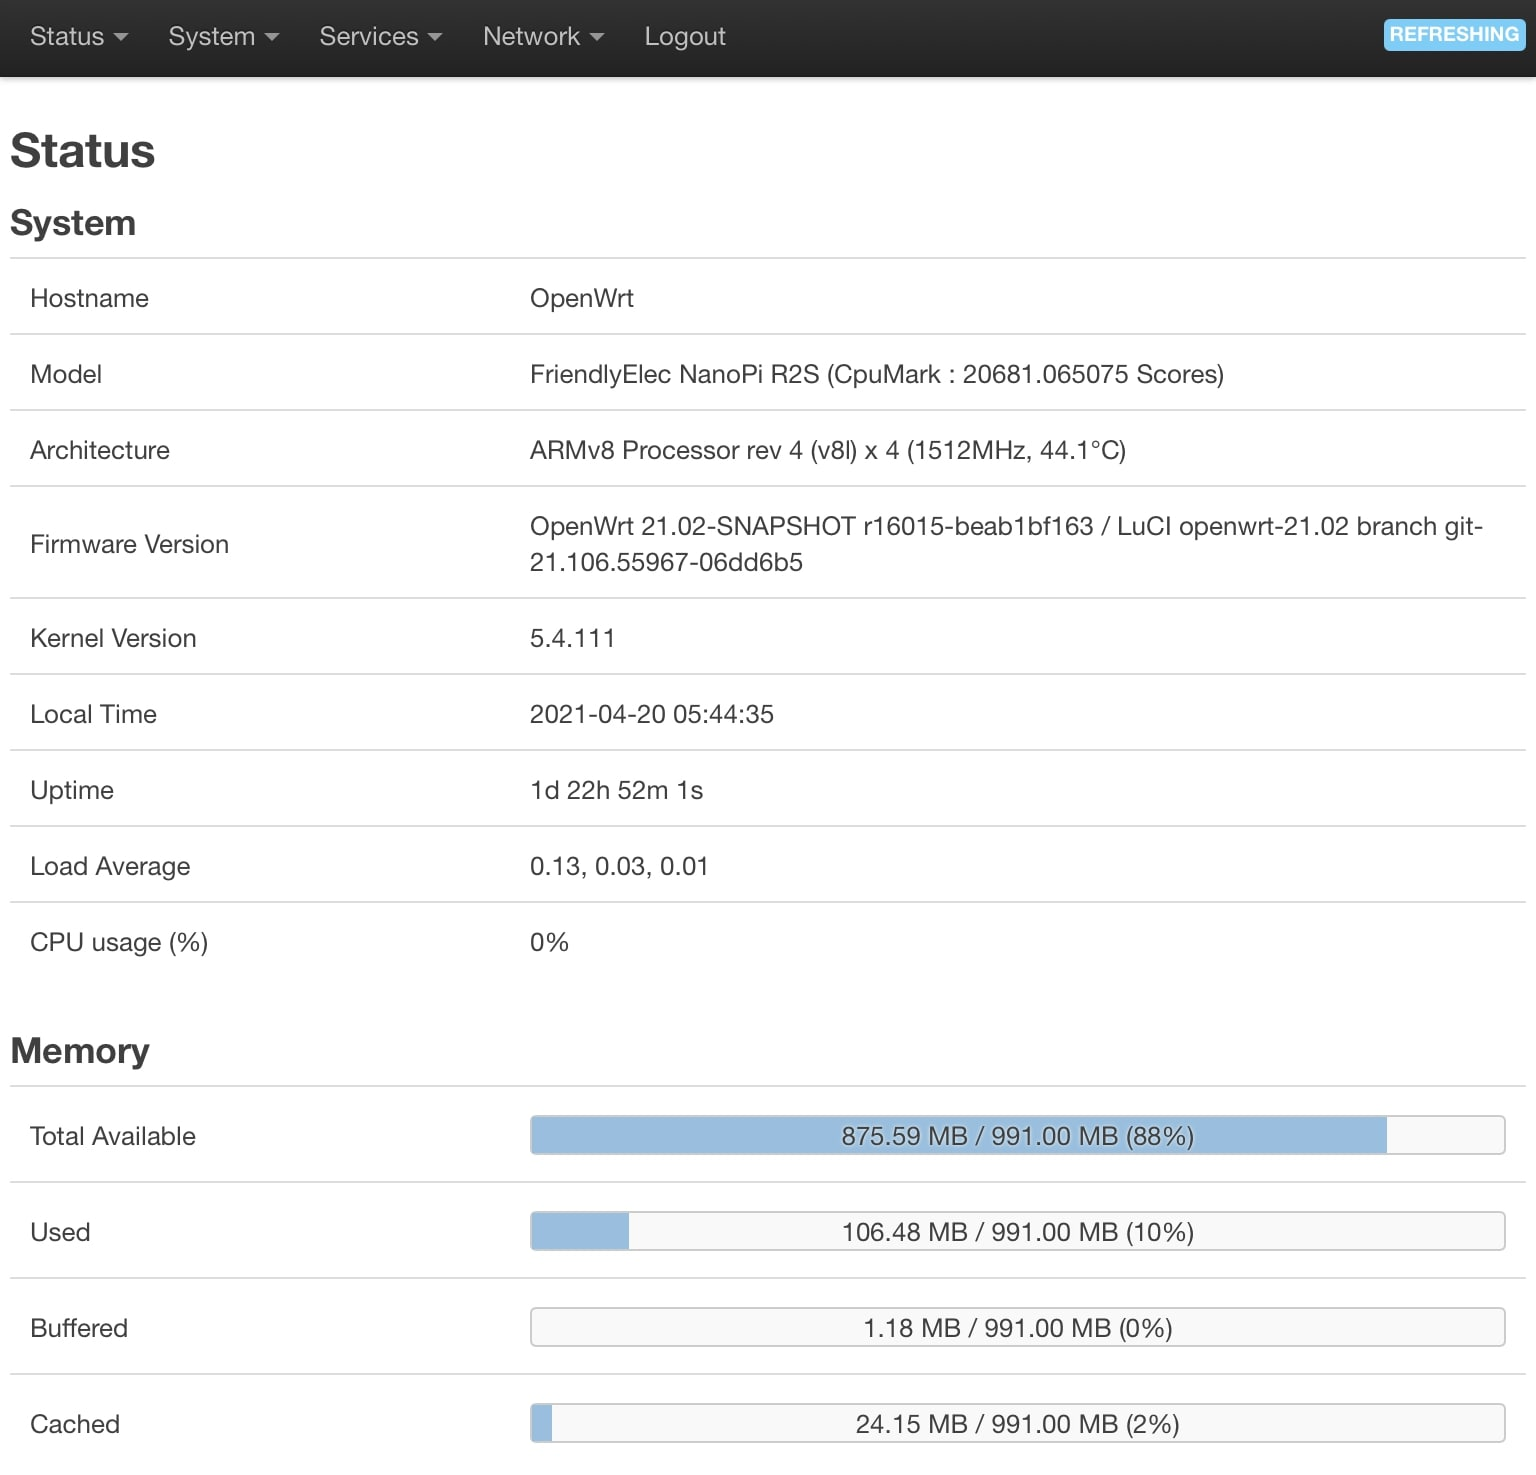
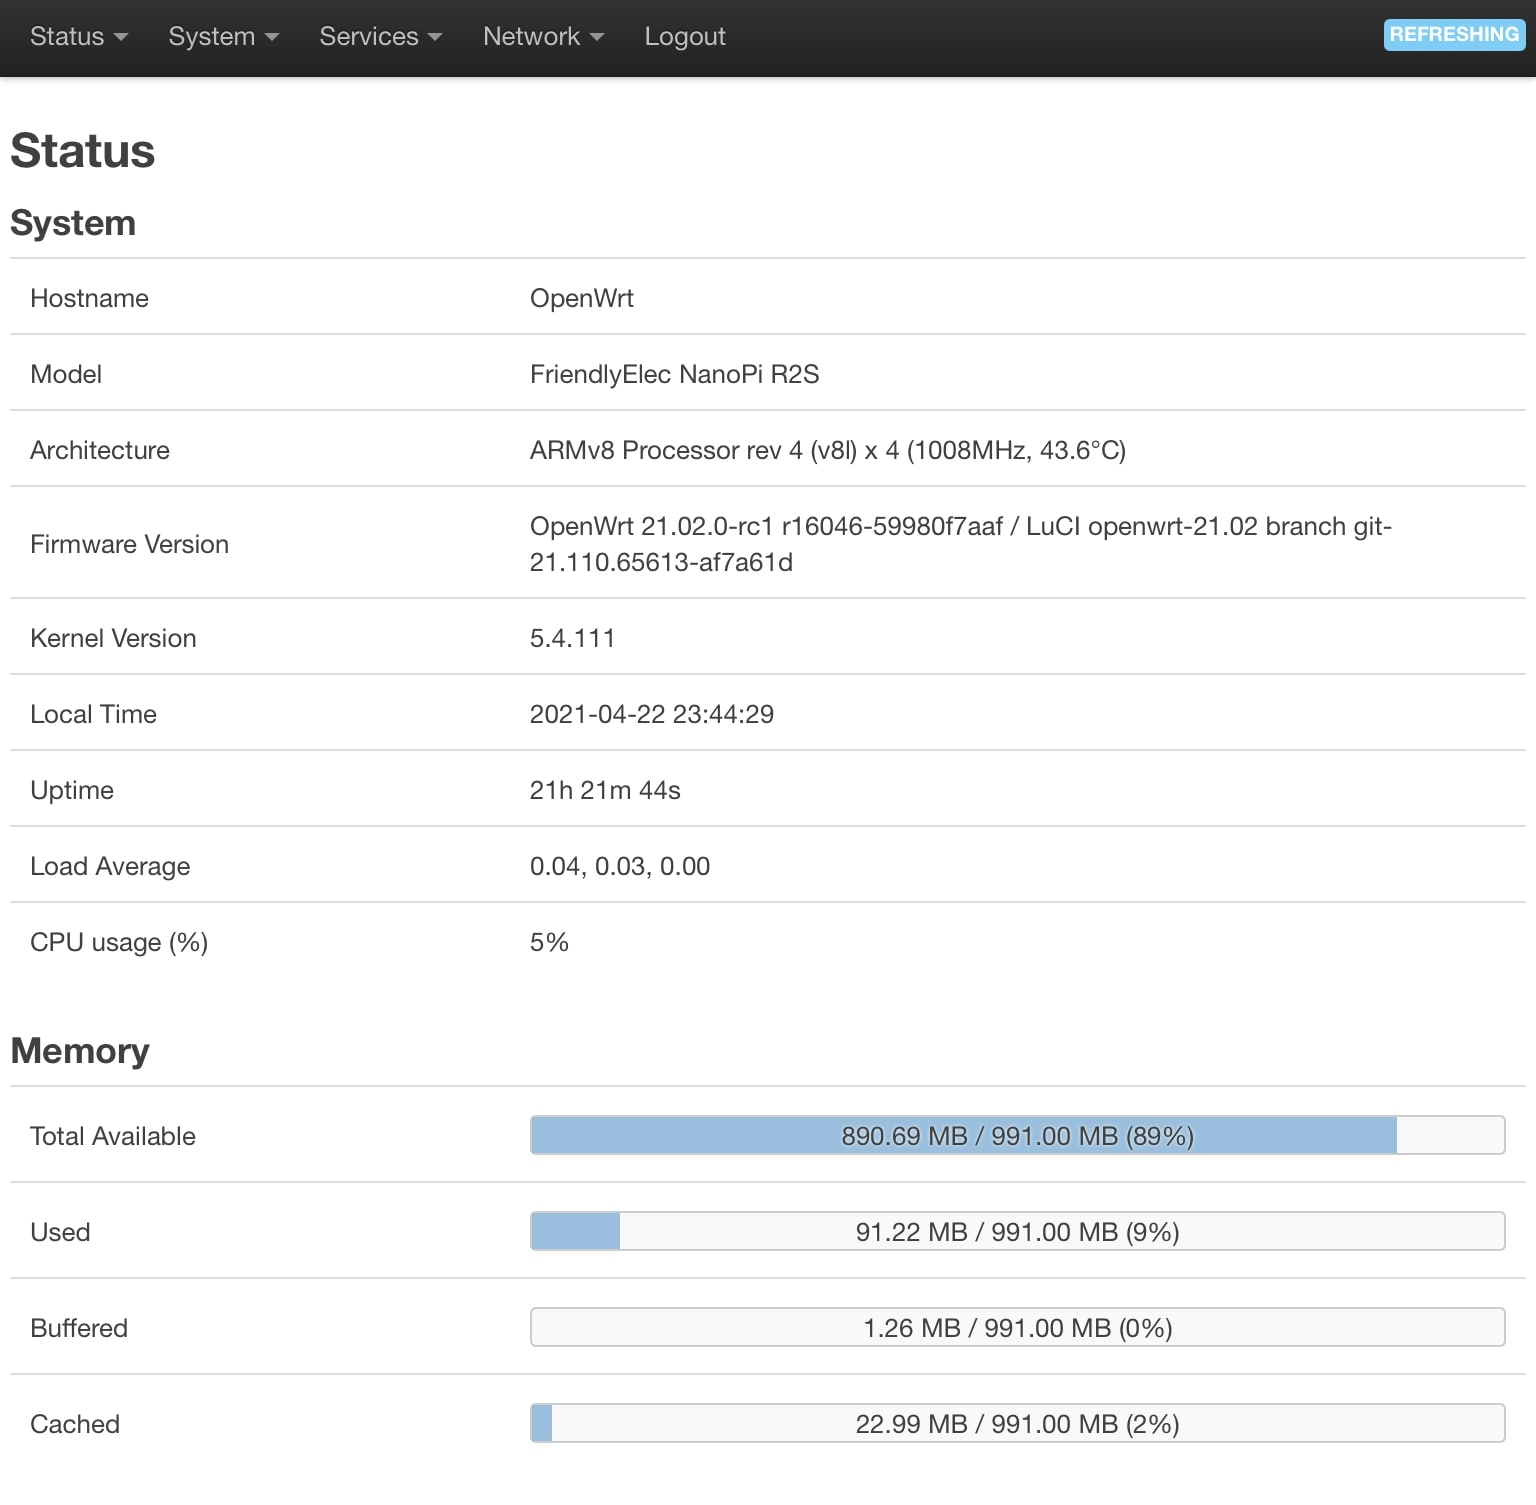
v21.02.0-rc1 readme changed

diff --git a/README.md b/README.md
@@ -18,7 +18,7 @@ Password：None
 
 ### Version Informations
 
-OpenWrt official v21.02-snapshot
+OpenWrt official v21.02.0-rc1
 
 [BingBing](https://weibo.com/u/6512991534) contains [SSRP](https://github.com/fw876/helloworld)
 
@@ -33,7 +33,7 @@ OpenWrt official v21.02-snapshot
 
 3.Fullcone NAT supported
 
-4.Opkg vermagic matched with OpenWrt releases ( You can install the software as if you have AppStore~ )
+4.Opkg vermagic matched with OpenWrt manifest ( You can install the software as if you have AppStore~ )
 
 5.Port some old software for the LuCI master by [msylgj](https://github.com/msylgj)
 
@@ -54,9 +54,11 @@ uci commit dhcp
 1.Fixed DDR4 333MHz problem
 
 2.Replaced [Shadowsocks-libev](https://github.com/shadowsocks/shadowsocks-libev) with [Shadowsocks-rust](https://github.com/shadowsocks/shadowsocks-rust) for the excellent performance.
-  * If your Shadowsocks are running with a non-AEAD encrypt method, please convert into Xray-core to run Shadowsocks or a terrible speed of fewer than 1 Mbps. And it's strongly recommended that you abandon outdated encrypt methods. 
+  * If your Shadowsocks are running with a non-AEAD encrypt method, please convert into Xray-core to run Shadowsocks or a terrible speed of fewer than 1 Mbps. And it's strongly recommended that you abandon outdated encrypt methods
 
-3.Support TF card with a minimum size of 512MB
+3.Remove frequencies below 800MHz (same voltage) for faster response
+
+4.Support TF card with a minimum size of 512MB
 
 ![](/Screenshots/main.jpg)
 
